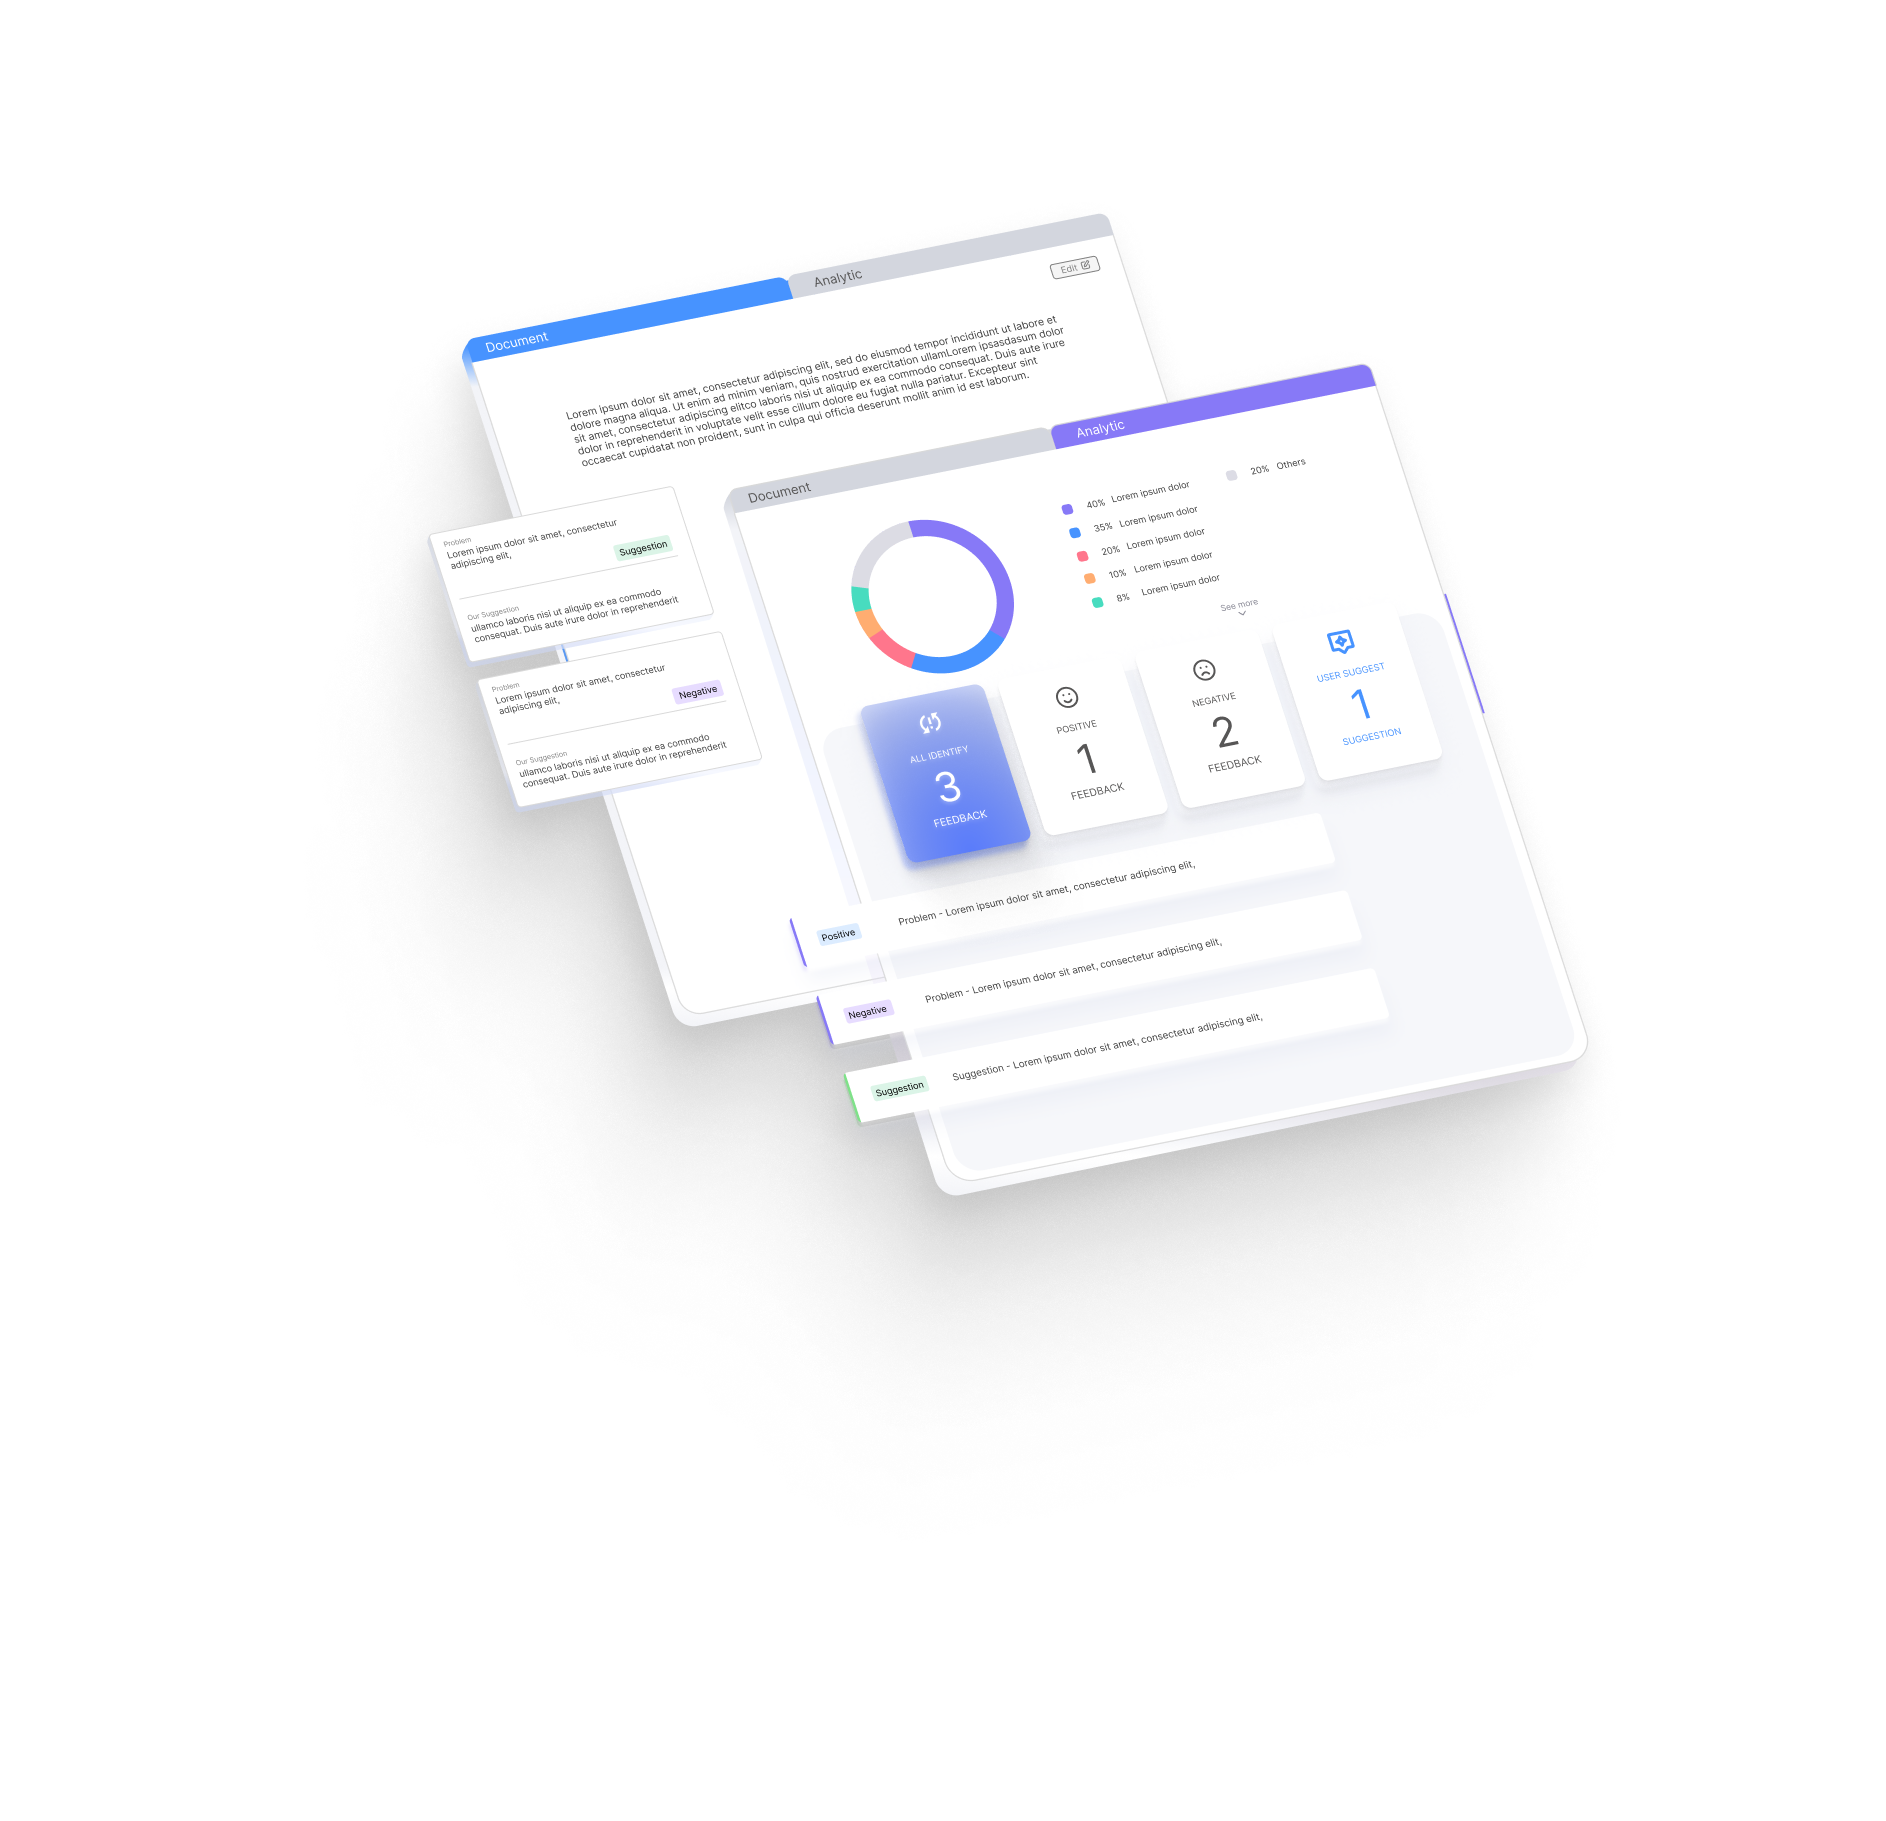
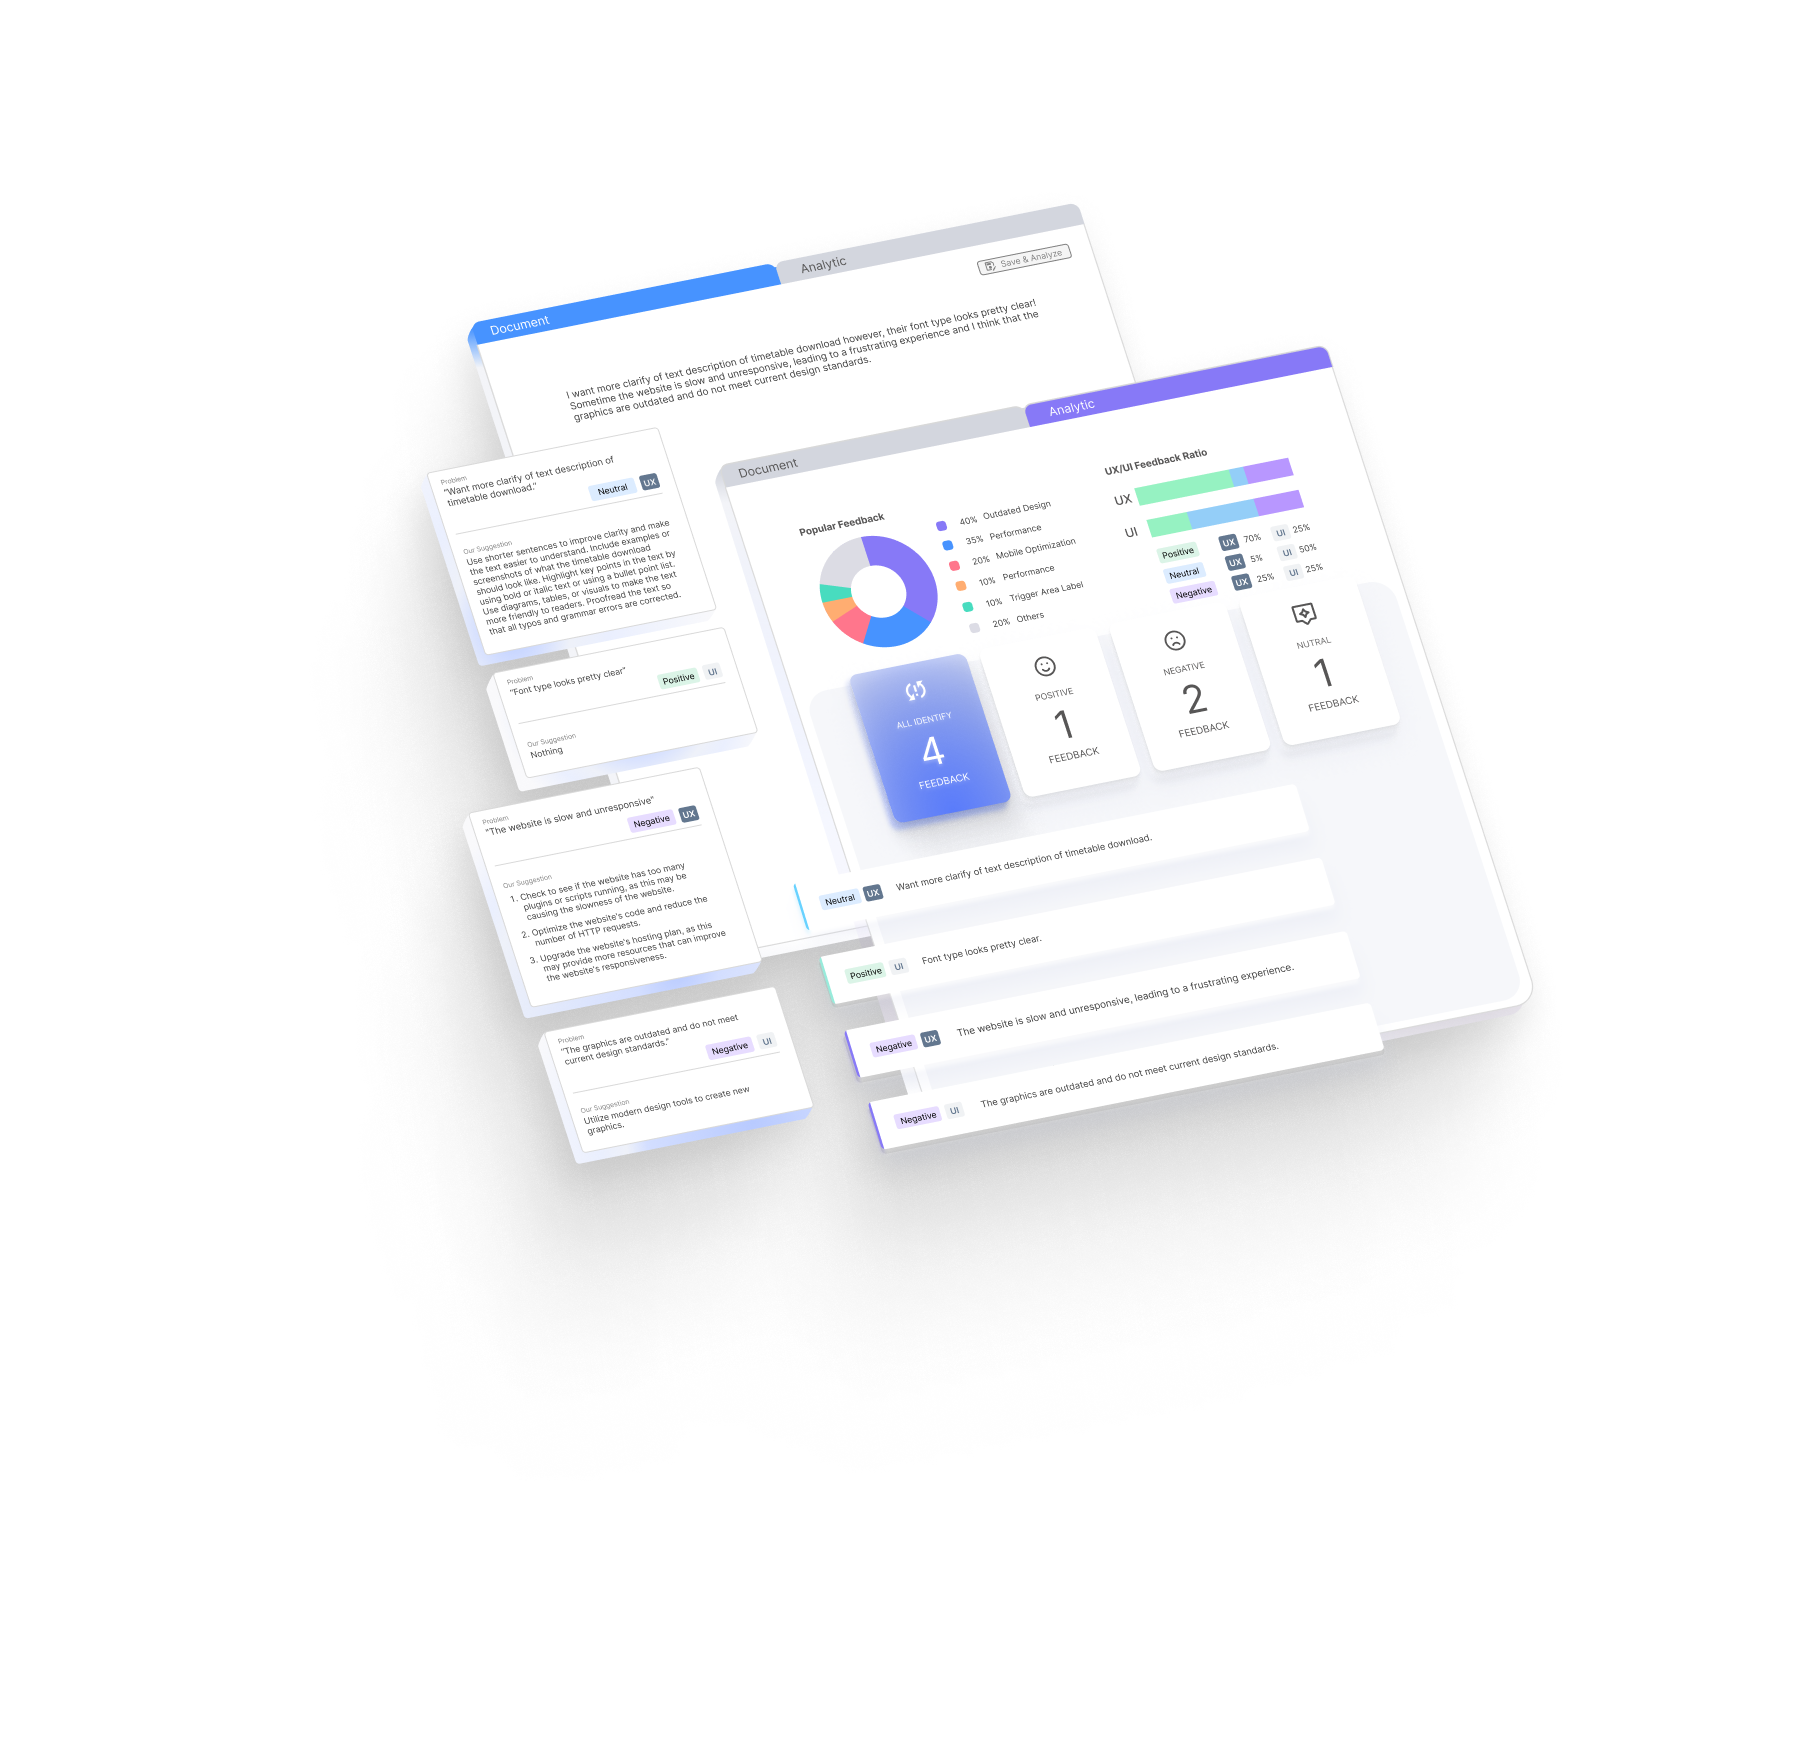
Change 3D image, UI adjustments, fix pie chart label percentage bug

diff --git a/components/project/Analytic.tsx b/components/project/Analytic.tsx
@@ -60,12 +60,17 @@ export default function Analytic() {
   }
 
   let removeDups: unknown[] = [];
-  problemCounters?.forEach((p) => {
-    const content = JSON.stringify(p);
-    if (!removeDups.includes(content)) {
-      removeDups.push(content);
-    }
-  });
+  problemCounters
+    ?.filter((obj, index, arr) => {
+      return arr.findIndex((o) => o.label === obj.label) === index;
+    })
+    .forEach((p) => {
+      const content = JSON.stringify(p);
+      if (!removeDups.includes(content)) {
+        removeDups.push(content);
+      }
+    });
+
   const processedData = removeDups.map((r) => JSON.parse(r as string)).sort((a, b) => b.count - a.count) as {
     type: string;
     sentiment: string;

diff --git a/public/styles/compile-css/global.css b/public/styles/compile-css/global.css
@@ -287,7 +287,7 @@ html {
   cursor: pointer;
 }
 .project__layout .rightbar {
-  height: 100%;
+  min-height: 100vh;
   width: 28.3125rem;
   background-color: #fff;
   overflow-y: scroll;
@@ -297,7 +297,7 @@ html {
   gap: 2.25rem;
   align-items: center;
   padding: 2rem 0;
-  margin-bottom: 4rem;
+  padding-bottom: 5rem;
 }
 
 .project {
@@ -1122,7 +1122,7 @@ html {
 }
 .analytic-header-chart h3 {
   position: absolute;
-  top: 65px;
+  top: 45px;
   left: 35px;
   font-size: 1.2rem;
   font-weight: 600;
@@ -1135,6 +1135,7 @@ html {
   justify-content: center;
   gap: 1.875rem;
   padding: 0 2rem;
+  padding-bottom: 2.5rem;
 }
 .analytic-header-feedback h3 {
   font-size: 1.1rem;

diff --git a/public/styles/sass/pages/_analytic.scss b/public/styles/sass/pages/_analytic.scss
@@ -17,7 +17,7 @@
       flex-direction: column;
       h3 {
         position: absolute;
-        top: 65px;
+        top: 45px;
         left: 35px;
         font-size: 1.2rem;
         font-weight: 600;
@@ -31,6 +31,7 @@
       justify-content: center;
       gap: rem(30px);
       padding: 0 2rem;
+      padding-bottom: 2.5rem;
       h3 {
         font-size: 1.1rem;
         font-weight: 600;

diff --git a/public/styles/sass/layouts/project/_sidebar.scss b/public/styles/sass/layouts/project/_sidebar.scss
@@ -21,7 +21,7 @@
   //Container
 
   .rightbar {
-    height: 100%;
+    min-height: 100vh;
     width: rem(453px);
     background-color: #fff;
     overflow-y: scroll;
@@ -31,6 +31,6 @@
     gap: rem(36px);
     align-items: center;
     padding: 2rem 0;
-    margin-bottom: 4rem;
+    padding-bottom: 5rem;
   }
 }
